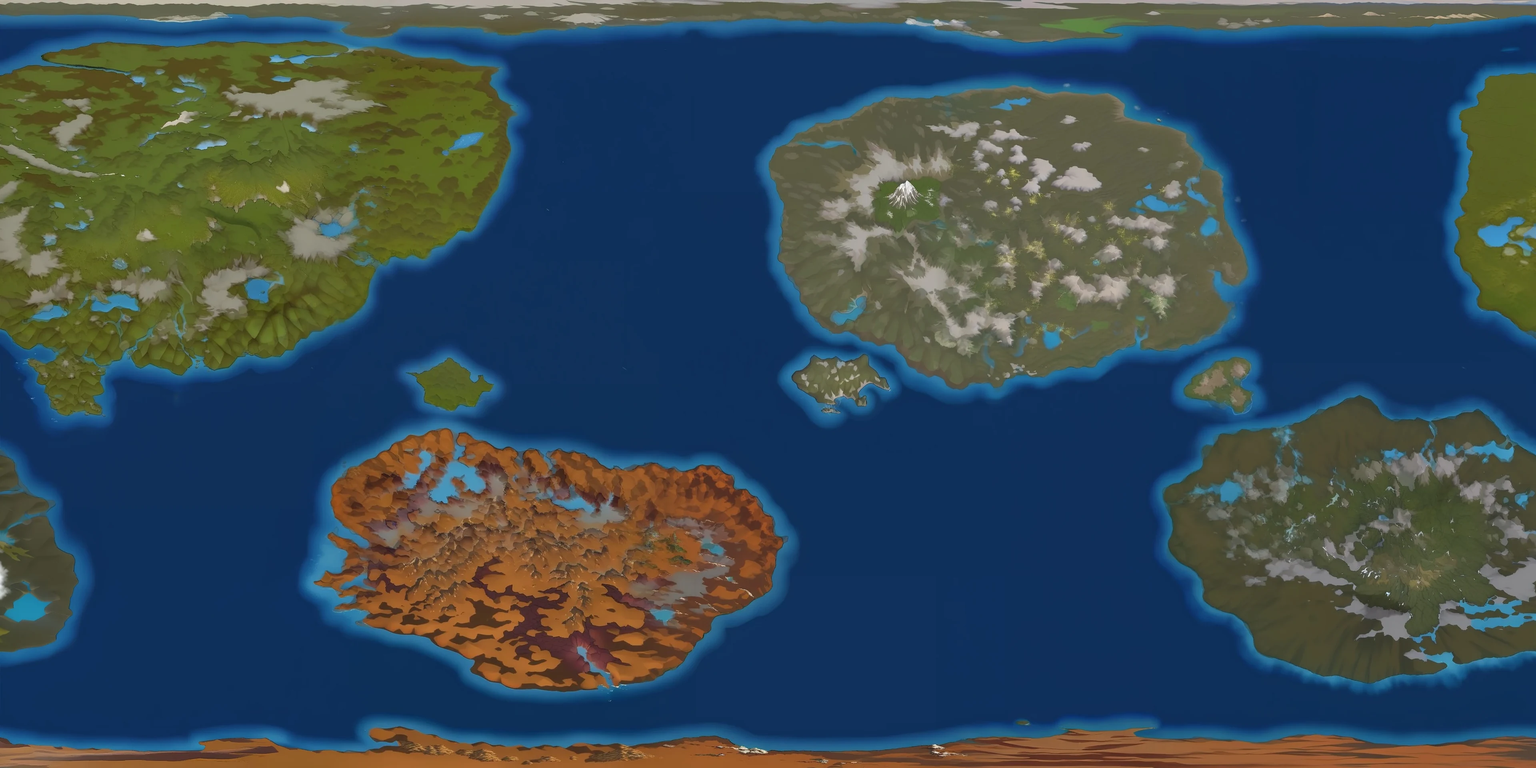
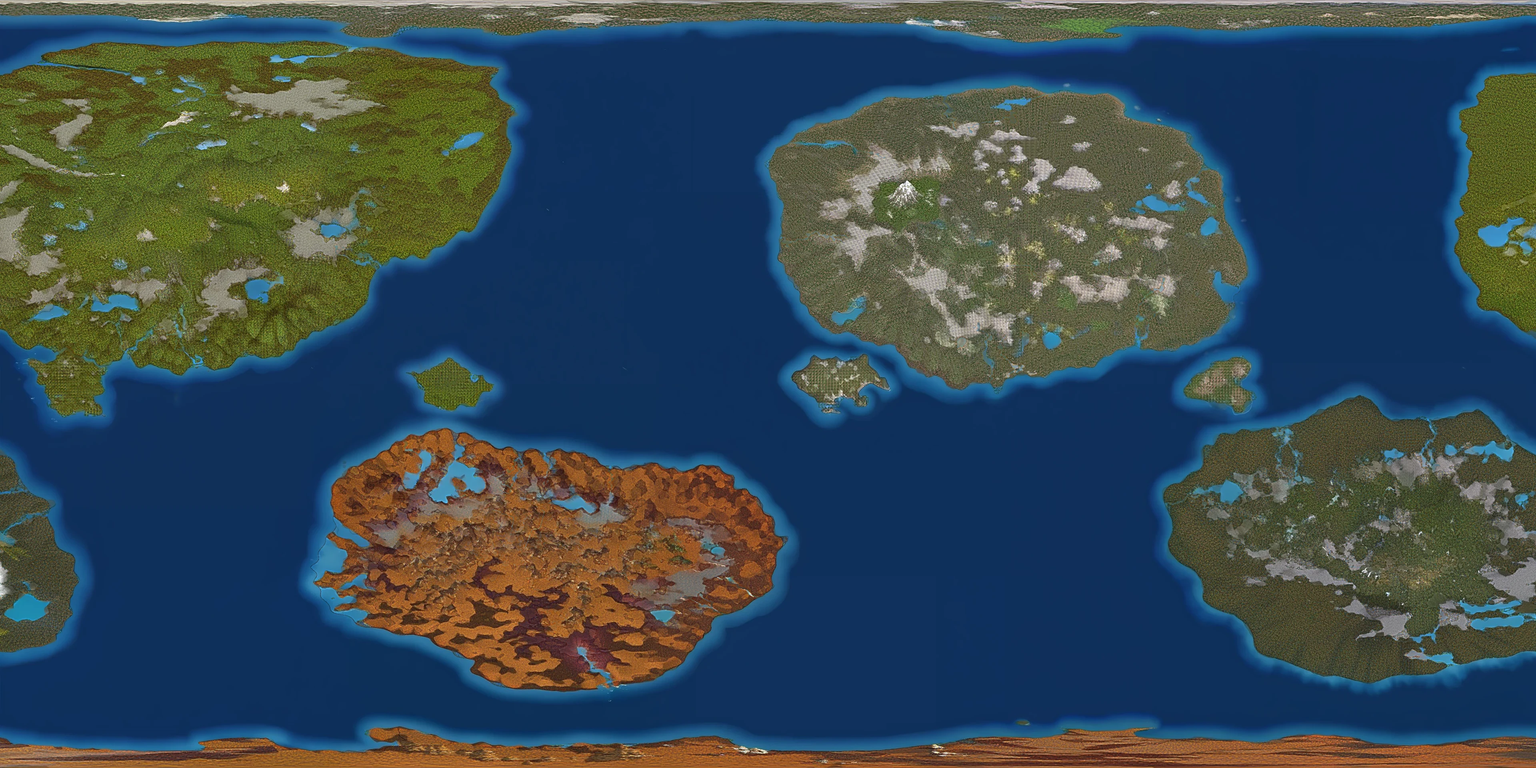
feat(globus): hybryda — realna tekstura terenu na malowanym atlasie (transfer detalu, ocean nietknięty)

diff --git a/scripts/worldgen/v2/build_globe_hybrid.py b/scripts/worldgen/v2/build_globe_hybrid.py
@@ -1,0 +1,56 @@
+#!/usr/bin/env python3
+"""Globe hybrid (owner 11.11.2026): lay real ground-texture detail over the hand-painted atlas.
+
+Keeps the painted style, coasts and shading, but adds the actual forest/mountain grain so the globe
+reads as real terrain when zoomed. Detail transfer: hybrid = painted * (real / blur(real))^strength,
+masked to land so the ocean stays painted. The original globe-painted.webp is NOT modified.
+
+  python3 scripts/worldgen/v2/build_globe_hybrid.py
+  GLOBE_PAINTED=deliveries/world-v2-art/maps/globe-hybrid.webp python3 scripts/worldgen/v2/build_v2_atlas.py
+  python3 scripts/build_globe_textures.py --v2
+
+HYBRID_STRENGTH (default 0.85) tunes how much real grain shows through.
+"""
+import os, subprocess, sys
+from pathlib import Path
+import numpy as np
+from PIL import Image
+from scipy import ndimage
+
+ROOT = Path(__file__).resolve().parents[3]
+sys.path.insert(0, str(Path(__file__).resolve().parent))
+from geometry import read  # noqa: E402
+from migration_preview import decode  # noqa: E402
+
+MAPS = ROOT / 'deliveries/world-v2-art/maps'
+PAINTED = MAPS / 'globe-painted.webp'
+HYBRID = MAPS / 'globe-hybrid.webp'
+REAL_PNG = ROOT / 'planet-real-tmp.png'
+STRENGTH = float(os.environ.get('HYBRID_STRENGTH', '0.85'))
+
+# 1. Real-texture planet at the same projection/resolution as the painted atlas.
+env = dict(os.environ, PLANET_REAL='1')
+subprocess.run([sys.executable, str(Path(__file__).parent / 'render_v2_planet_terrain.py'), str(REAL_PNG)], env=env, check=True)
+real = np.asarray(Image.open(REAL_PNG).convert('RGB'), np.float32)
+painted = np.asarray(Image.open(PAINTED).convert('RGB'), np.float32)
+if real.shape != painted.shape:
+    real = np.asarray(Image.fromarray(real.astype(np.uint8)).resize((painted.shape[1], painted.shape[0]), Image.LANCZOS), np.float32)
+
+# 2. Exact land mask from the sphere labels, so the grain never spills onto the painted ocean.
+P = ROOT / 'public/game/worlds/superior-v2-prototype'
+m = read(P / 'sphere-chunks.json'); labels = np.zeros((m['height'], m['width']), np.uint8)
+for n in m['chunks']:
+    c = read(P / n); labels[c['y']:c['y'] + c['height'], c['x']:c['x'] + c['width']] = decode(c['labels'], c['width'], c['height'])
+land = labels > 0
+if land.shape != painted.shape[:2]:
+    land = np.asarray(Image.fromarray((land * 255).astype(np.uint8)).resize((painted.shape[1], painted.shape[0]), Image.NEAREST)) > 127
+
+# 3. Detail transfer: real high-frequency grain over the painted colours (ratio averages ~1, so the
+#    painted palette is preserved; clipping avoids hot/dark specks).
+blur = ndimage.gaussian_filter(real, sigma=(3, 3, 0))
+ratio = np.clip(real / (blur + 1e-3), 0.5, 2.0)
+hybrid = painted * (ratio ** STRENGTH)
+hybrid = np.where(land[..., None], hybrid, painted)
+Image.fromarray(np.clip(hybrid, 0, 255).astype(np.uint8)).save(HYBRID, 'WEBP', quality=90, method=6)
+REAL_PNG.unlink(missing_ok=True)
+print('hybrid', HYBRID.name, painted.shape[1], 'x', painted.shape[0], 'strength', STRENGTH)

diff --git a/scripts/worldgen/v2/render_v2_planet_terrain.py b/scripts/worldgen/v2/render_v2_planet_terrain.py
@@ -6,11 +6,15 @@ roads skipped) so the globe and the 2D atlas match the world. Output feeds the G
 Each spherical land pixel is projected into its land's local map (inverse azimuthal projection,
 the same one landscape.py uses) and takes the colour of the cell found there.
 """
-import json, sys
+import json, os, sys
 from pathlib import Path
 import numpy as np
 from PIL import Image, ImageFilter
 from scipy import ndimage
+
+# PLANET_REAL=1 samples the actual ground textures per pixel (forests/mountains read as real terrain)
+# instead of flat biome averages. Used by the globe hybrid to lay real detail over the painted atlas.
+REAL = os.environ.get('PLANET_REAL', '0') == '1'
 
 ROOT = Path(__file__).resolve().parents[3]
 sys.path.insert(0, str(Path(__file__).resolve().parent))
@@ -48,6 +52,9 @@ for lab, key in enumerate(IDS, 1):
         biome[y:y + tt['height'], x:x + tt['width']] = decode(tt['biome'], tt['width'], tt['height'])
     pal = np.array([colour(f'{aff}-{k}-0') for k in ['grass', 'forest', 'mountain', 'wetland']])
     pal[2] = pal[2] * 0.7 + np.array([235, 235, 230.]) * 0.3  # ranges read lighter from orbit
+    if REAL:
+        T = 128
+        tex = [np.asarray(Image.open(TEX / f'ki-v2-terrain-{aff}-{k}-0.webp').convert('RGB').resize((T, T), Image.LANCZOS), np.float32) for k in ['grass', 'forest', 'mountain', 'wetland']]
     ys, xs = np.nonzero(labels == lab)
     for s in range(0, len(ys), 400000):
         yy, xx = ys[s:s + 400000], xs[s:s + 400000]
@@ -57,7 +64,18 @@ for lab, key in enumerate(IDS, 1):
         cx = np.clip(((anchor['x'] + xy[:, 0]) // 32).astype(int), 0, cw - 1)
         cy = np.clip(((anchor['y'] - xy[:, 1]) // 32).astype(int), 0, ch - 1)
         fl = flags[cy, cx]; b = np.minimum(biome[cy, cx], 3)
-        col = pal[b]
+        if REAL:
+            wx = anchor['x'] + xy[:, 0]; wy = anchor['y'] - xy[:, 1]
+            tx = np.clip(((wx / 4) % T).astype(int), 0, T - 1)
+            ty = np.clip(((wy / 4) % T).astype(int), 0, T - 1)
+            col = np.zeros((len(yy), 3), np.float32)
+            for k in range(4):
+                mk = b == k
+                col[mk] = tex[k][ty[mk], tx[mk]]
+            mtn = b == 2
+            col[mtn] = col[mtn] * 0.7 + np.array([235, 235, 230.]) * 0.3
+        else:
+            col = pal[b]
         col[(fl & 16) == 0] = [40, 120, 160]
         col[((fl & 16) > 0) & ((fl & 1) == 0)] = [70, 140, 190]
         out[yy, xx] = col

diff --git a/scripts/worldgen/v2/build_v2_atlas.py b/scripts/worldgen/v2/build_v2_atlas.py
@@ -6,7 +6,7 @@ geometry (deliveries/world-v2-art/maps/globe-painted.webp: render_v2_planet_terr
 Writes src/assets/planet-map/atlas-v2-{1920,3840}.webp, src/components/planet-map/atlasRegions.v2.json
 and planetLayout.v2.json (label and settlement spots), in map units 2000 x 1000.
 """
-import json, sys
+import json, os, sys
 from pathlib import Path
 import cv2
 import numpy as np
@@ -20,7 +20,7 @@ from migration_preview import decode  # noqa: E402
 P = ROOT / 'public/game/worlds/superior-v2-prototype'
 ASSETS = ROOT / 'src/assets/planet-map'
 MW, MH = 2000, 1000
-src = Image.open(ROOT / 'deliveries/world-v2-art/maps/globe-painted.webp').convert('RGB')
+src = Image.open(ROOT / os.environ.get('GLOBE_PAINTED', 'deliveries/world-v2-art/maps/globe-painted.webp')).convert('RGB')
 src.resize((3840, 1920), Image.LANCZOS).save(ASSETS / 'atlas-v2-3840.webp', 'WEBP', quality=88, method=6)
 src.resize((1920, 960), Image.LANCZOS).save(ASSETS / 'atlas-v2-1920.webp', 'WEBP', quality=86, method=6)
 m = read(P / 'sphere-chunks.json'); labels = np.zeros((m['height'], m['width']), np.uint8)

diff --git a/docs/zmiany/2026-11-11/ZMIANY.md b/docs/zmiany/2026-11-11/ZMIANY.md
@@ -487,3 +487,22 @@ Na polecenie właściciela: usunięto wrażenie nieczytelnej kolumny, dodano pra
 - Bramka: lint 0, typecheck 0, testy 0, build 0. Scalone z `origin/main` (PR #146 adaptacja) — konflikt `renderSuperior.ts`
   rozwiązany połączeniem obu podejść. **Globus zostawiony** zgodnie z poleceniem właściciela (hybryda zbudowana lokalnie,
   nie wdrożona; atlas produkcyjny nietknięty).
+
+### 21. Globus: hybryda — realna tekstura terenu na malowanym atlasie (wybór właściciela, wdrożone)
+
+- Właściciel wybrał **hybrydę** (zachować malowany styl + dodać prawdziwy teren) i dał zgodę na `scipy`/`cv2`
+  (zainstalowane przez apt, dopisane do `bootstrap.sh`).
+- **`render_v2_planet_terrain.py`: tryb `PLANET_REAL=1`** — zamiast płaskich średnich biomów próbkuje realne
+  tekstury podłoża per piksel (lasy/góry/bagna). **`build_globe_hybrid.py`** (nowy): nakłada detal realnej tekstury
+  na malowany atlas metodą transferu detalu `hybrid = painted × (real / blur(real))^0.85`, maskowane do lądu
+  (ocean zostaje malowany). Źródło: `deliveries/world-v2-art/maps/globe-hybrid.webp` (4096×2048).
+- **`build_v2_atlas.py`: `GLOBE_PAINTED` env** wybiera źródło atlasu (domyślnie malowany, bez zmian). Przebudowano
+  `atlas-v2-{1920,3840}.webp` z hybrydy + `build_globe_textures.py --v2` → `v2-globe-color/surface/lights`.
+- **Kontury i etykiety (`atlasRegions.v2.json`, `planetLayout.v2.json`) przywrócone do oryginału** — etykiety sfery
+  się nie zmieniły, a hybryda zachowuje malowane wybrzeża; drobne różnice w konturach wysp były artefaktem wersji cv2.
+- **Weryfikacja:** energia tekstury na lądzie (pełna rozdzielczość, 4 regiony) **wzrosła 3–7×** (np. 0,45→3,16;
+  1,52→9,92) — realny detal terenu, nie szum; ocean nietknięty. Render w przeglądarce (WebGL/SwiftShader):
+  **`globeReady: true`**, `v2-globe-color-3840/1920.webp` HTTP 200. Jedyny warning to istniejąca wcześniej niezgodność
+  hydratacji SSR atrybutu `data-ki-world-v2` (niezwiązana z teksturami). Bramka: lint 0, testy 128 plików ✓, build 0.
+- **Uczciwie:** efektu nie obejrzałem gołym okiem (vision bridge kontenera niedostępny) — potwierdzony liczbowo
+  (wzrost detalu) i renderem bez błędów. Ocenę wizualną („wow") zostawiam właścicielowi na kilku kadrach globusa.
